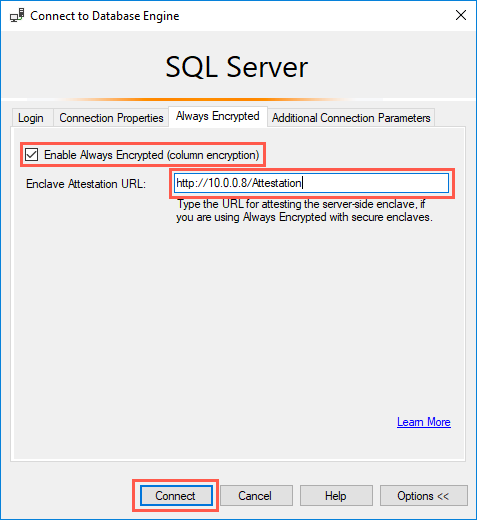
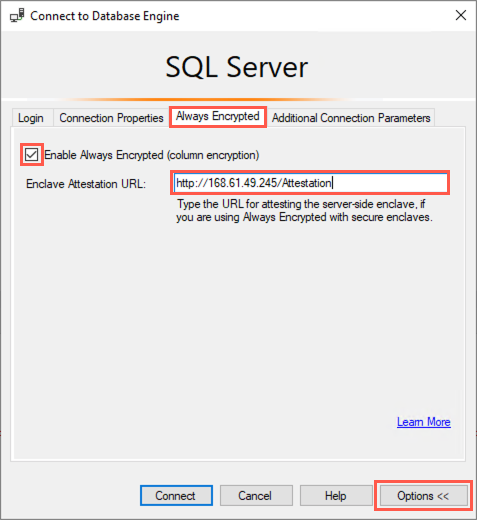
Updated for Always Encrypted with secure enclaves

diff --git a/day1-exp1/README.md b/day1-exp1/README.md
@@ -620,49 +620,62 @@ In this step, you will encrypt the data stored in the email column inside the se
 
    ![Change Connection is highlighted under Connection in the query window context menu.](media/new-query-change-connection.png 'Change connection')
 
-3. In the Connect to Database Engine dialog, select **Options**, navigate to the **Always Encrypted** tab, then check the **Enable Always Encrypted** box and enter the following URL into the Enclave Attestation URL box: `http://10.0.0.8/Attestation`.
+3. In the Connect to Database Engine dialog, select **Options**, navigate to the **Always Encrypted** tab, then check the **Enable Always Encrypted** box and enter the `AttestationServerUrl` from the value sheet you were provided for this lab into the Enclave Attestation URL box. For example, `http://168.61.49.245/Attestation`.
 
-   ![On the Always Encrypted tab of the Connect to Database Engine dialog, Enable Always Encrypted is checked, and the URL above is entered into the Enclave Attestation URL field.](media/ssms-connect-enable-always-encrypted-checked.png 'Connect to Database Engine')
+   ![On the Always Encrypted tab of the Connect to Database Engine dialog, Enable Always Encrypted is checked, and the URL above is entered into the Enclave Attestation URL field.](media/ssms-connect-enable-always-encrypted-checked.png "Connect to Database Engine")
 
 4. Select **Connect**.
 
-   > TODO: Finish these steps once a solution to the error is found...
-   > Error: Unable to apply connection settings. The detailed error message is: No enclave provider found for enclave type 'SIMULATOR'. Please specify the provider in the application configuration.
+5. Now, on the SSMS toolbar, change the database back to your **sales_XXXXX** database by selecting the drop down arrow next to **master** and selecting the **sales_XXXXX** database ((where XXXX is the unique identifier assigned to you for this lab).
 
-5. In the query window, copy and paste the following query to encrypt the `c_email_address` column in the `dbo.customer` table.
+   ![The sales_XXXXX database is highlighted in the database selected drop down on the SSMS toolbar.](media/ssms-change-database.png "Change database")
+
+6. In the query window, copy and paste the following query to encrypt the `c_email_address` column in the `dbo.customer` table.
 
    ```sql
+   DROP INDEX [cci_customer] ON [dbo].[customer]
+   GO
+
    ALTER TABLE [dbo].[customer]
    ALTER COLUMN [c_email_address] [char](50) COLLATE Latin1_General_BIN2
-   ENCRYPTED WITH (COLUMN_ENCRYPTION_KEY = [TI-EK], ENCRYPTION_TYPE = Randomized, ALGORITHM = 'AEAD_AES_256_CBC_HMAC_SHA_256') NOT NULL
+   ENCRYPTED WITH (COLUMN_ENCRYPTION_KEY = [TI-EK], ENCRYPTION_TYPE = Randomized, ALGORITHM = 'AEAD_AES_256_CBC_HMAC_SHA_256') NULL
    WITH (ONLINE = ON);
 
    ALTER DATABASE SCOPED CONFIGURATION CLEAR PROCEDURE_CACHE;
+
+   CREATE CLUSTERED COLUMNSTORE INDEX [cci_customer] ON [dbo].[customer] WITH (DROP_EXISTING = OFF, COMPRESSION_DELAY = 0) ON [PRIMARY]
+   GO
    ```
 
-   > **NOTE**: Notice the `ALTER DATABASE SCOPED CONFIGURATION CLEAR PROCEDURE_CACHE` statement to clear the query plan cache for the database in the above script. After you have altered the table, you need to clear the plans for all batches and stored procedures that access the table, to refresh parameters encryption information.
+   > **NOTE**: There are two additional aspects of the query above you should take note of: 1.) The `DROP INDEX` statement listed first will drop the Clustered ColumnStore index on the `customer` table, as the encryption cannot be applied while that is in place. The final statement is a `CREATE INDEX` command to recreate it. 2.) Notice the `ALTER DATABASE SCOPED CONFIGURATION CLEAR PROCEDURE_CACHE` statement to clear the query plan cache for the database in the above script. After you have altered the table, you need to clear the plans for all batches and stored procedures that access the table, to refresh parameters encryption information.
 
-6. If you see a dialog appear after executing the above script, asking whether to enable parameterization for Always Encrypted, click **Enable**.
+7. If you see a dialog appear after executing the above script, asking whether to enable parameterization for Always Encrypted, click **Enable**.
 
-   ![The Enable button is highlighted on the dialog.](media/ssms-parameterization-always-encrypted.png 'Parameterization for Always Encrypted')
+   ![The Enable button is highlighted on the dialog.](media/ssms-parameterization-always-encrypted.png "Parameterization for Always Encrypted")
 
-7. Open another new query window in SSMS, and right-click anywhere in the new query window, then select **Connection > Change Connection**.
+8. Open another new query window in SSMS, and right-click anywhere in the new query window, then select **Connection > Change Connection**.
 
-8. In the Connect to Database Engine dialog, select **Options**, navigate to the **Always Encrypted** tab and make sure **Enable Always Encrypted** is not checked, and then select **Connect**.
+9. In the Connect to Database Engine dialog, select **Options**, navigate to the **Always Encrypted** tab and make sure **Enable Always Encrypted** is not checked, and then select **Connect**.
 
-   ![On the Always Encrypted tab of the Connect to Database Engine dialog, Enable Always Encrypted is unchecked.](media/ssms-connect-enable-always-encrypted-unchecked.png 'Connect to Database Engine')
+   ![On the Always Encrypted tab of the Connect to Database Engine dialog, Enable Always Encrypted is unchecked.](media/ssms-connect-enable-always-encrypted-unchecked.png "Connect to Database Engine")
 
-9. To verify the `c_email_address` column is now encrypted, paste in and execute the below statement in the query window with Always Encrypted disabled. The query window should return encrypted values in the SSN and Salary columns.
+10. As you did previously, on the SSMS toolbar, change the database back to your **sales_XXXXX** database by selecting the drop down arrow next to **master** and selecting the **sales_XXXXX** database ((where XXXX is the unique identifier assigned to you for this lab).
 
-   ```sql
-   SELECT c_customer_sk, c_first_name, c_last_name, c_email_address FROM [dbo].[customer]
-   ```
+    ![The sales_XXXXX database is highlighted in the database selected drop down on the SSMS toolbar.](media/ssms-change-database.png "Change database")
 
-   > TODO: Add screen shot of results
+11. To verify the `c_email_address` column is now encrypted, paste in and execute the below statement in the query window with Always Encrypted disabled. The query window should return encrypted values in the SSN and Salary columns.
 
-10. Now, run the same query in the query window with the Always Encrypted enabled. The returned results should contain the data decrypted.
+    ```sql
+    SELECT c_customer_sk, c_first_name, c_last_name, c_email_address FROM [dbo].[customer]
+    ```
 
-> TODO: Add screen shot of results
+    ![Encrypted email address is highlighted in the query results.](media/always-encrypted-without-secure-enclave-results.png "Always Encrypted with secure enclaves")
+
+12. Now, run the same query in the query window with the Always Encrypted enabled. The returned results should contain the data decrypted.
+
+    ![Decrypted email address is highlighted in the query results.](media/always-encrypted-with-secure-enclave-results.png "Always Encrypted with secure enclaves")
+
+    > Using a secure enclave, you are now able to run queries against columns using Always Encrypted, and view decrypted results in SSMS.
 
 ### Run rich queries against an encrypted column
 
@@ -678,7 +691,7 @@ Now, you can run rich queries against the encrypted columns. Some query processi
 
 3. Select **OK**.
 
-4. In the query window with Always Encrypted enabled, paste in and execute the below query. The query should return plaintext values and rows meeting the specified search criteria.
+4. In the query window with Always Encrypted enabled, paste in and execute the below query. The query should return plaintext values and rows meeting the specified search criteria, which are records with email addresses with `@gmx.` in them.
 
    ```sql
    DECLARE @EmailPattern [char](50) = '%@gmx.%';
@@ -687,11 +700,18 @@ Now, you can run rich queries against the encrypted columns. Some query processi
    WHERE c_email_address LIKE @EmailPattern;
    ```
 
-   > TODO: Add screen shot of results
+   ![Decrypted email address is highlighted in the query results.](media/always-encrypted-rich-results-success.png "Always Encrypted with secure enclaves")
 
-5. Try the same query again in the query window that does not have Always Encrypted enabled, and note the failure that occurs.
+   > In the results, notices that all email address have a domain of `@gmx`.
 
-   > TODO: Add screen shot of error
+5. Try the same query again in the query window that does not have Always Encrypted enabled, and note the failure that occurs. You will see an error similar to the following:
+
+   ```sql
+   Msg 33277, Level 16, State 6, Line 5
+   Encryption scheme mismatch for columns/variables '@EmailPattern'. The encryption scheme for the columns/variables is (encryption_type = 'PLAINTEXT') and the expression near line '4' expects it to be Randomized, , a BIN2 collation for string data types, and an enclave-enabled column encryption key, or PLAINTEXT.
+   ```
+
+   ![The error message above is displayed in the Messages pane.](media/always-encrypted-rich-results-error.png "Always Encrypted with secure enclaves")
 
 ## Wrap-up
 

diff --git a/environment-setup/data/1/README.md b/environment-setup/data/1/README.md
@@ -34,8 +34,6 @@ Complete the steps below to deploy and configure SQL Server 2019 for the [Day 1,
 - SQL Server 2017 on Windows Server 2016
 - SQL Server 2008 R2 on Windows Server 2008 R2
 
-> TODO: Add steps for setting up SQL 2017 VM: Can pull from Data platform upgrade and migration MCW.
-
 ## Set up HGS VM
 
 A VM needs to be provisioned to run the Host Guardian Service (HGS), which is required for Always Encrypted with secure enclaves. The HGS computer is needed for enclave attestation.
@@ -210,20 +208,20 @@ Provision a Windows Server 2019 Datacenter. Once provisioned install and configu
 
 8. Return to your RDP session on the sql-2019 VM, and enter the following command in an elevated Windows PowerShell console. This command tells there SQL Server computer where to attest. Make sure you specify the IP address or the DNS name of your HGS computer in both address locations.
 
-```powershell
-# use http, and not https
-Set-HgsClientConfiguration -AttestationServerUrl http://10.0.0.8/Attestation -KeyProtectionServerUrl http://10.0.0.8/KeyProtection/
-```
+    ```powershell
+    # use http, and not https
+    Set-HgsClientConfiguration -AttestationServerUrl http://<public-ip-address-of-hgs-service-vm>/Attestation -KeyProtectionServerUrl http://<public-ip-address-of-hgs-service-vm>/KeyProtection/
+    ```
 
-1. You will see output from the command above providing details about the guarded host.
+9. You will see output from the command above providing details about the guarded host.
 
-  ![Guarded host](media/guarded-host-output.png "Guarded host")
+   ![Guarded host](media/guarded-host-output.png "Guarded host")
+
+10. The `AttestationServerUrl` value should be added to the list of values provided to lab attendees. They will need this to connect enable Always Encrypted with secure enclaves in SSMS.
 
 ### Configure SQL Server 2019
 
 The steps below open access to the sql-2019 VM for SQL Server (port 1433), and configure the user account that will be used by workshop attendees.
-
-> TODO: Add firewall rule on sql-2019 VM
 
 1. Open Windows Defender Firewall and Advanced Security, and add a new inbound rule to open port 1433 to TCP traffic for all connections, and name the rule **SqlServer**.
 
